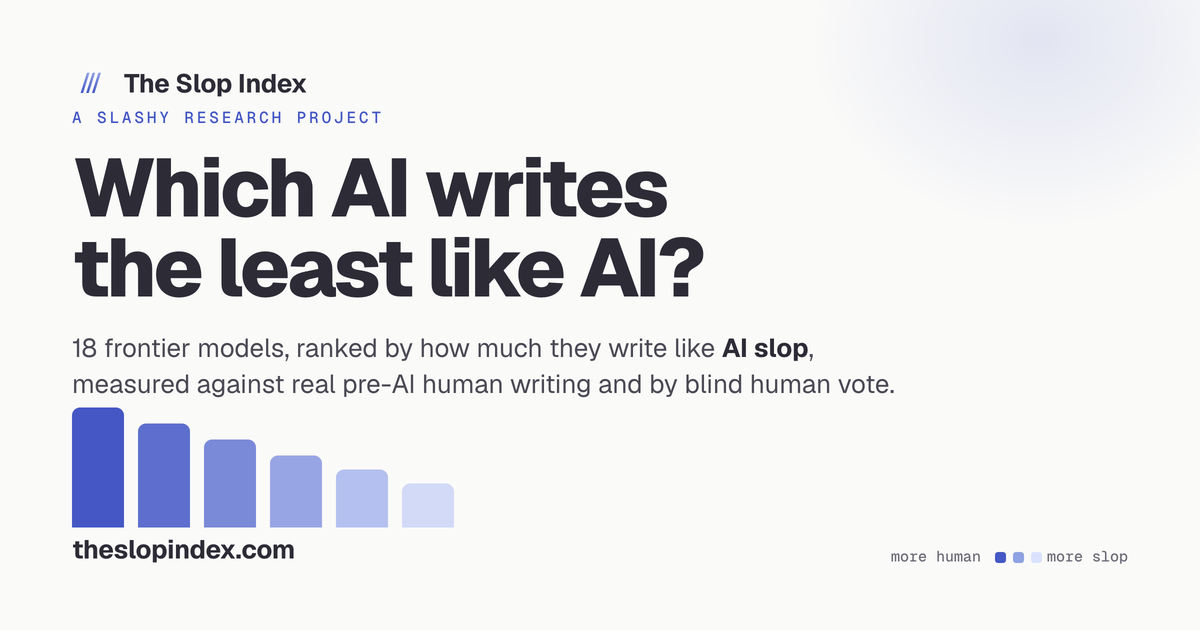
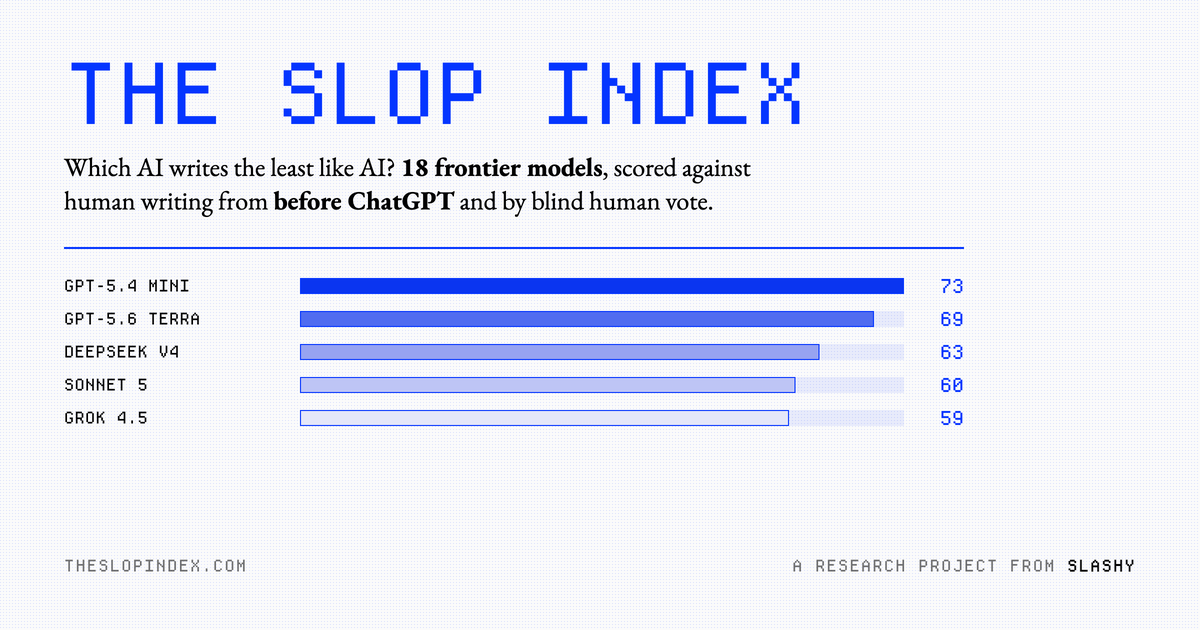
Sync from source (2 files)

diff --git a/site/public/stats.html b/site/public/stats.html
@@ -16,7 +16,7 @@
 <style>
   /* inherit the brand tokens (Geist, cobalt, charcoal, off-white) from site.css;
      only the two stats-local accents live here */
-  :root{ --heat:#917ED6; --good:#4457C4; }
+  :root{ --heat:#97A3F1; --good:#0435FF; }
   *{box-sizing:border-box}
   body{margin:0;background:var(--bg);color:var(--body);font-family:var(--sans);font-size:16px;-webkit-font-smoothing:antialiased}
   .wrap{max-width:820px;margin:0 auto;padding:0 20px 60px}